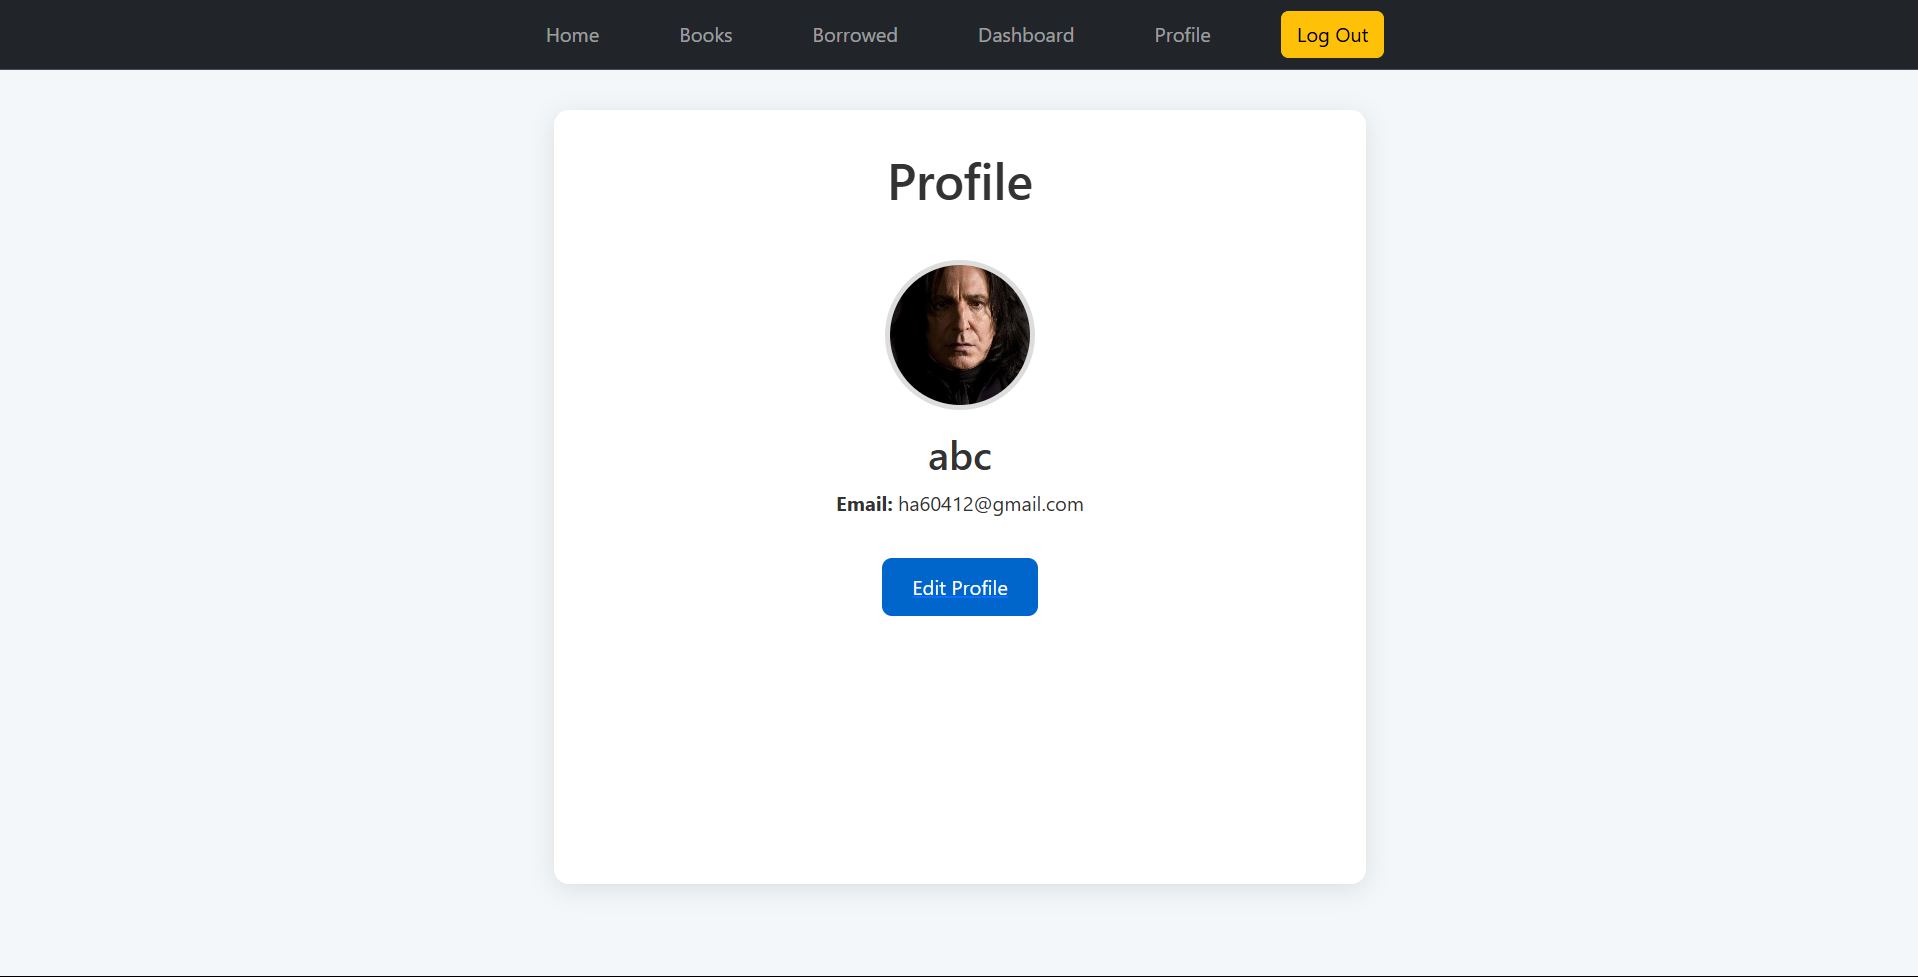
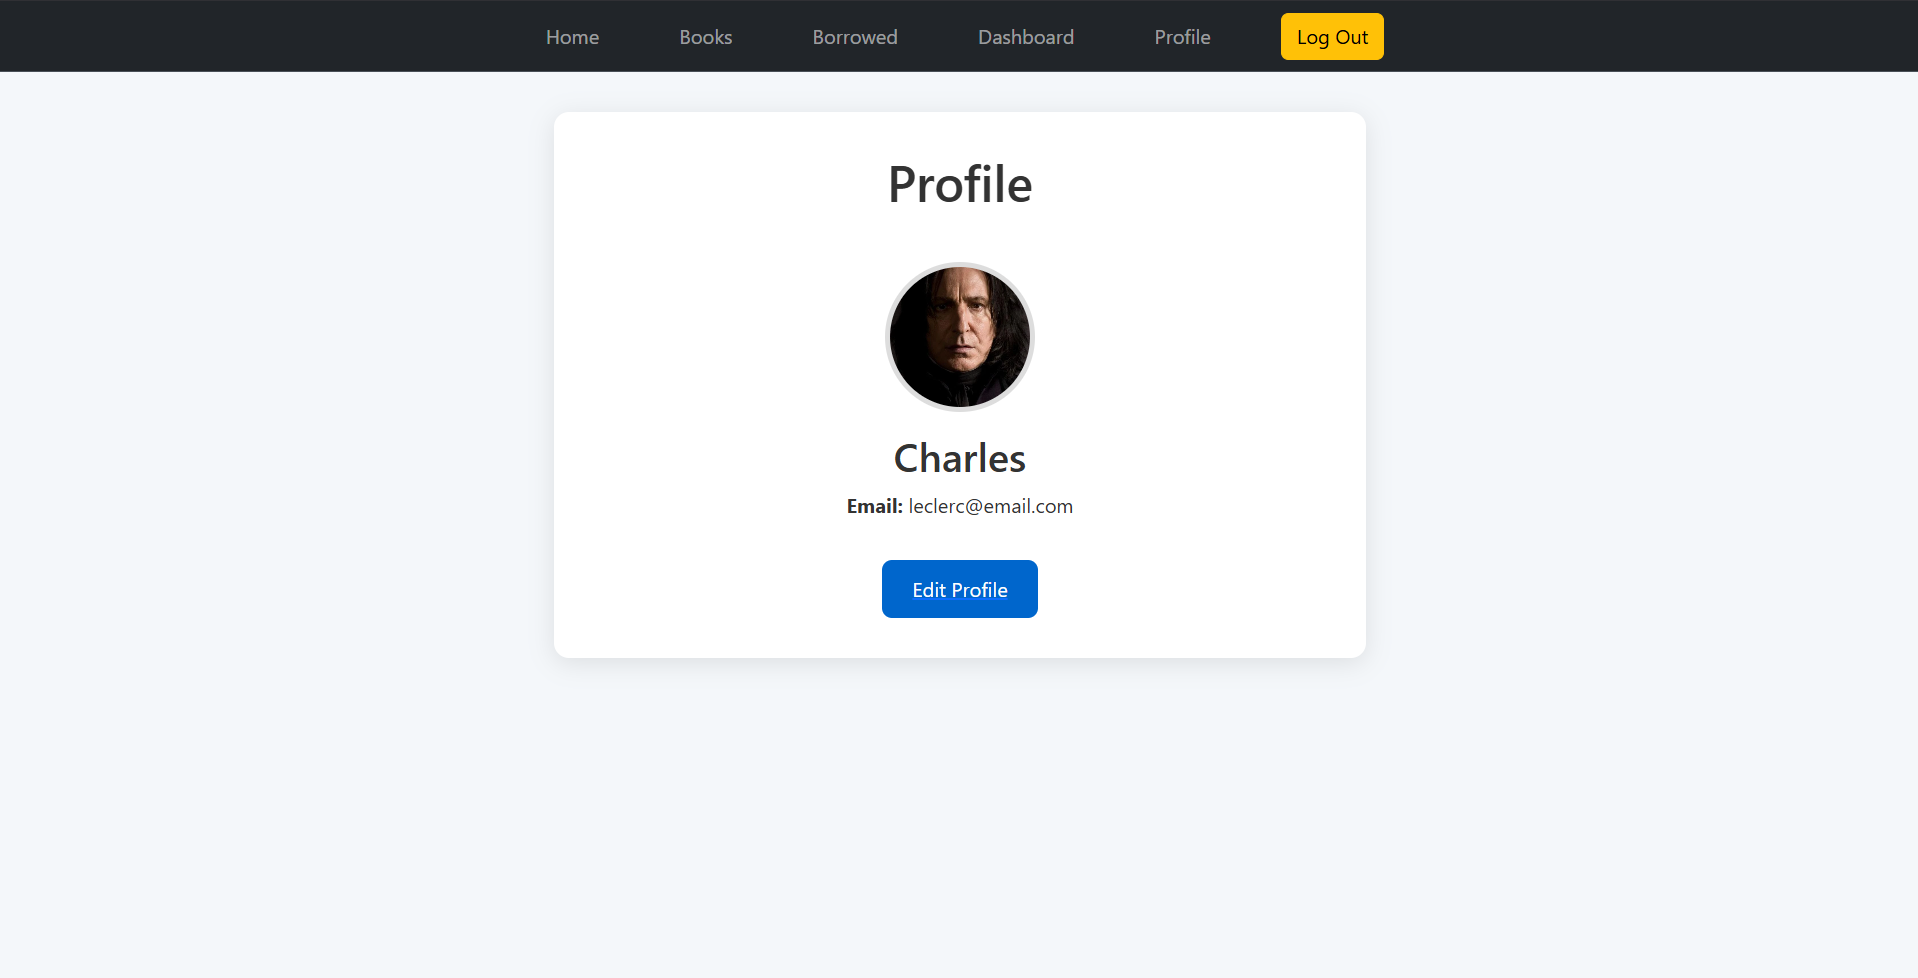
edit readme

diff --git a/public/stylesheets/style.css b/public/stylesheets/style.css
@@ -257,10 +257,11 @@ form button[type='submit']:hover,
   background-color: red;
 }
 
+/* break */
+
 #profile-body {
   margin: 0;
   font-family: 'Segoe UI', Tahoma, Geneva, Verdana, sans-serif;
-  background-color: #f4f7fa;
   color: #333;
 }
 
@@ -271,8 +272,10 @@ form button[type='submit']:hover,
 .profile-container {
   display: flex;
   flex-direction: column;
+  align-items: center;
+  justify-content: center;
   gap: 2rem;
-  max-width: 1000px;
+  max-width: 650px;
   margin: auto;
   background-color: #fff;
   border-radius: 12px;
@@ -284,6 +287,7 @@ form button[type='submit']:hover,
   display: flex;
   flex-direction: column;
   align-items: center;
+  justify-content: center;
   text-align: center;
 }
 
@@ -312,7 +316,7 @@ form button[type='submit']:hover,
 }
 
 .profile-chart {
-  width: 100%;
+  /* width: 100%; */
 }
 
 .profile-chart h3 {
@@ -320,18 +324,10 @@ form button[type='submit']:hover,
   margin-bottom: 1rem;
 }
 
-canvas {
-  width: 100% !important;
-  max-height: 650px;
-}
-#profile-myChart {
-  max-height: 400px;
-}
-
 .chart {
   margin-top: 1.5rem;
-  height: 650px;
-  width: 800px;
+  height: 700px;
+  width: 700px;
   justify-self: center;
   align-self: center;
 }
@@ -424,7 +420,8 @@ canvas {
 @media (max-width: 640px) {
   .profile-container {
     flex-direction: row;
-    justify-content: space-between;
+    justify-content: center;
+    align-items: center;
   }
 
   .profile-info {

diff --git a/controllers/profile.js b/controllers/profile.js
@@ -50,6 +50,10 @@ exports.profile_edit_put = async (req, res) => {
   const user = await User.findById(req.session.user._id)
   const profile = await User.findByIdAndUpdate(req.params._id, req.body)
 
+  if (req.file) {
+    req.body.profilePicture = req.file.path
+    req.body.profilePicture = req.body.profilePicture.replace('public', '')
+  }
   const validPassword = bcrypt.compareSync(req.body.oldPassword, user.password)
   if (!validPassword) {
     errMsg = 'Your password is incorrect!'

diff --git a/routes/profile.js b/routes/profile.js
@@ -1,7 +1,8 @@
 const router = require('express').Router()
 const profileCtrl = require('../controllers/profile')
+const upload = require('../middleware/upload_profile_img')
 
 router.get('/', profileCtrl.profile_show_get)
 router.get('/edit', profileCtrl.profile_edit_get)
-router.put('', profileCtrl.profile_edit_put)
+router.put('', upload.single('profilePicture'), profileCtrl.profile_edit_put)
 module.exports = router

diff --git a/README.md b/README.md
@@ -41,18 +41,22 @@ The Personal Library Management System enables users to:
 
 ### 🖼 Wireframes
 
-[📎 View wireframes](#) _(link to PDF or Figma)_
+[📎 View wireframes](/assets/wireframes/)
 
 ### 🗂 ERD (Entity Relationship Diagram)
 
-[📎 View ERD](#) _(link to image or diagram tool)_
+[📎 View ERD](assets/ERD/Database_ER_diagram.png)
+
+### 🔷 Jira Board
+
+[📎 View Jira board](assets/ERD/Database_ER_diagram.png)
 
 ## 🚀 Getting Started
 
 ### 🧰 Prerequisites
 
-- Node.js v18+
-- npm or yarn
+- Node.js
+- npm
 - MongoDB (local or Atlas)
 - Git
 
